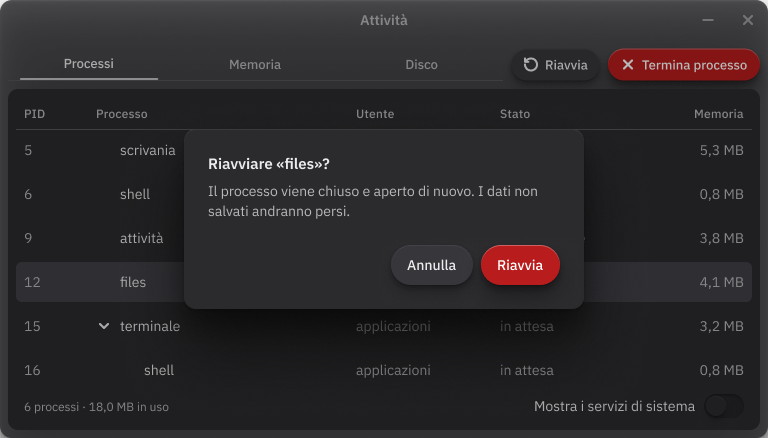
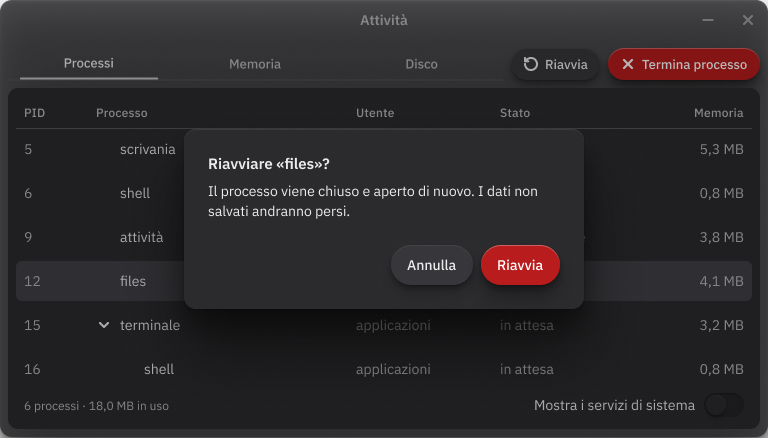
Avviso: testo del Messaggio in testo/primario; rifatte le foto di Attività e Store che lo usano

diff --git a/disegni/ApriSalva/descrizione.md b/disegni/ApriSalva/descrizione.md
@@ -52,7 +52,7 @@ Decisioni della persona (17 novembre 2026): in "Salva", se il file con quel nome
 - Schermata: 298:992 "Salva – sostituire il file?" (pagina 289:674, x 3300, 1024 x 664, padding spazio/32). Copia di "Salva – con nome" 293:2836, con il campo Nome "appunti.txt" (il file che esiste gia).
 - Ordine dei livelli: Finestra Files (dietro) 298:993, Velo della finestra 298:1016 (960 x 600), Finestra Salva 298:1017 (480 x 469, x 272 y 98), Velo della finestra Salva 298:1300 (istanza del componente Velo 138:455, assoluta, 480 x 469 sulla finestra Salva), Avviso 302:1267.
 - Avviso 302:1267: istanza del componente Avviso 185:3085, Scelte=Due (132:1063), 400 x 160, assoluta a x 312 y 253 nella cornice (centrata sulla finestra Salva, 272+40 e 98+155). Misure del componente, non toccate: padding spazio/24, gap spazio/24, fondo pieno superficie/elevata, effetti di finestra della libreria.
-  - Testi (gap spazio/8): "Titolo" "Sostituire il file?" e "Messaggio" "Il file appunti.txt esiste già. Vuoi sostituirlo?" (testo provvisorio, la persona dara quello definitivo). Il Messaggio e colorato testo/primario (Semantici), invece del testo/secondario del componente.
+  - Testi (gap spazio/8): "Titolo" "Sostituire il file?" e "Messaggio" "Il file appunti.txt esiste già. Vuoi sostituirlo?" (testo provvisorio, la persona dara quello definitivo). Il Messaggio e colorato testo/primario (Semantici), come nel componente.
   - Il componente Avviso non ha una proprieta per nascondere il titolo: resta, con il testo "Sostituire il file?". Decisione della persona: il titolo del componente si tiene.
   - Azioni (a sinistra del bordo destro, gap spazio/8): Pulsante Secondario M Stato=Normale "Annulla" + Pulsante M Pericolo Normale "Sostituisci" (come nel componente della libreria: cambiato solo il testo).
   - Altezza: 24 + 48 (testi: 20 + 8 + 20) + 24 + 40 + 24 = 160.
